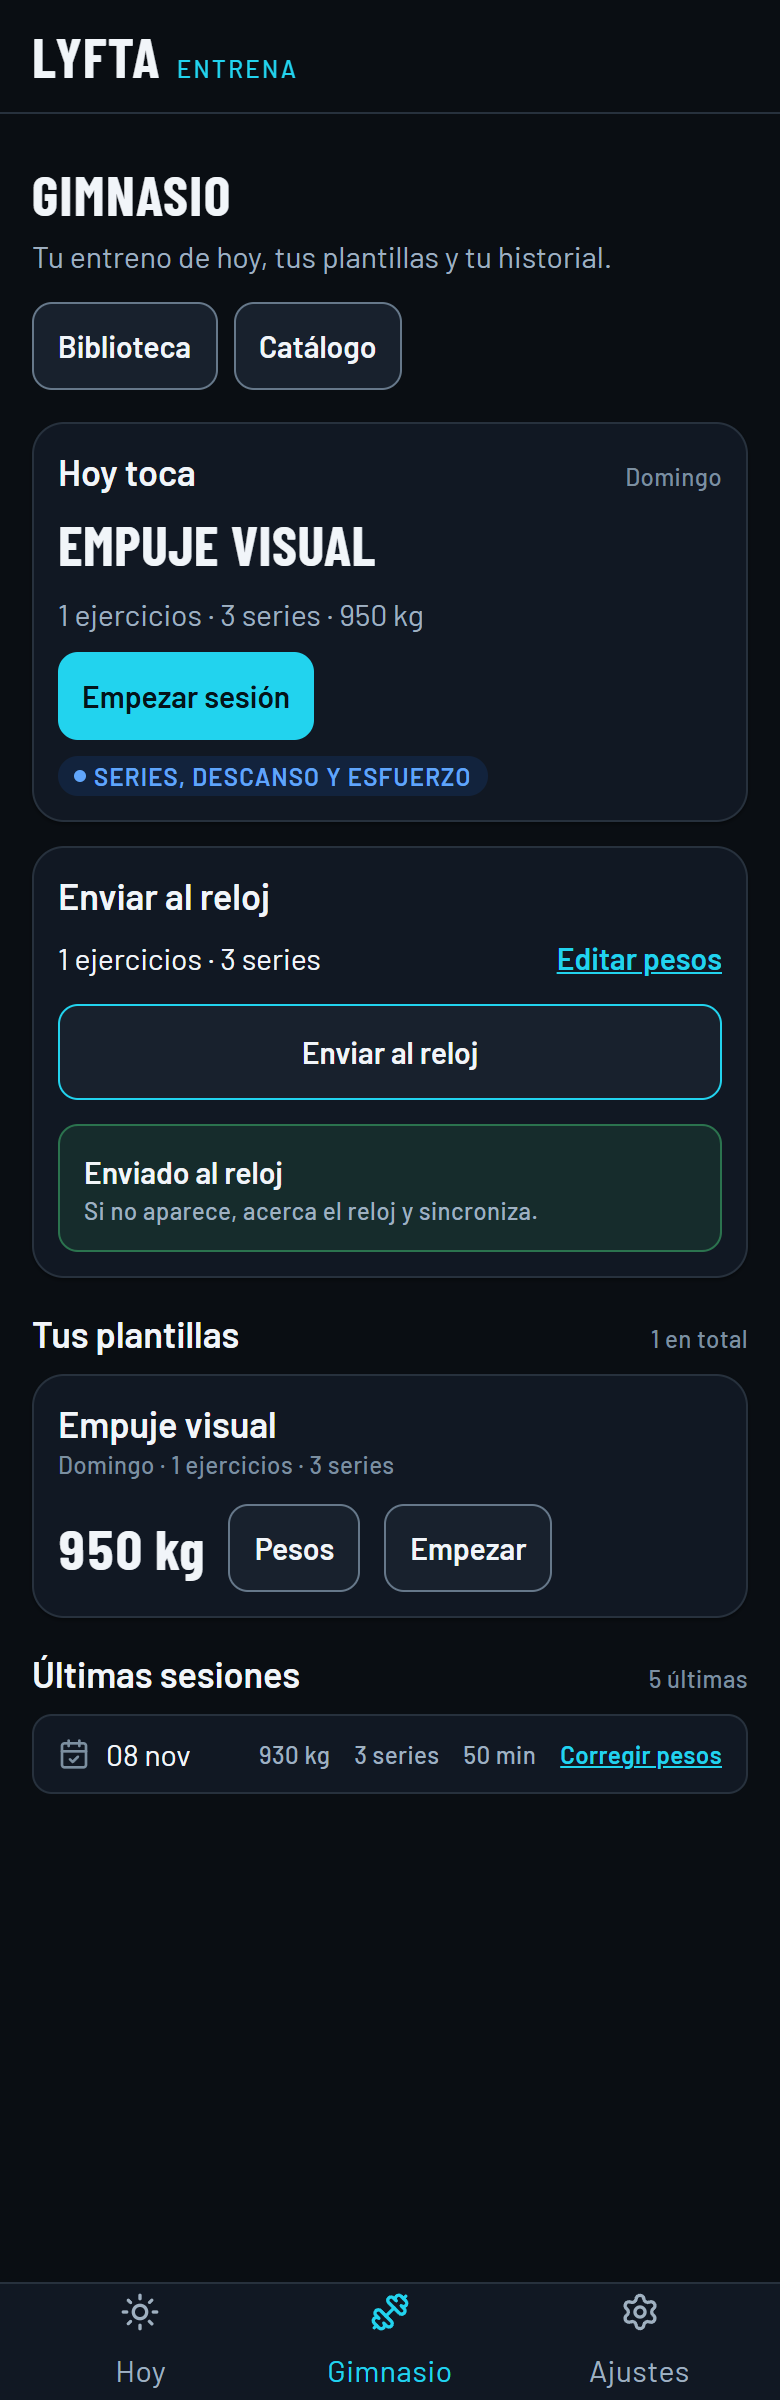
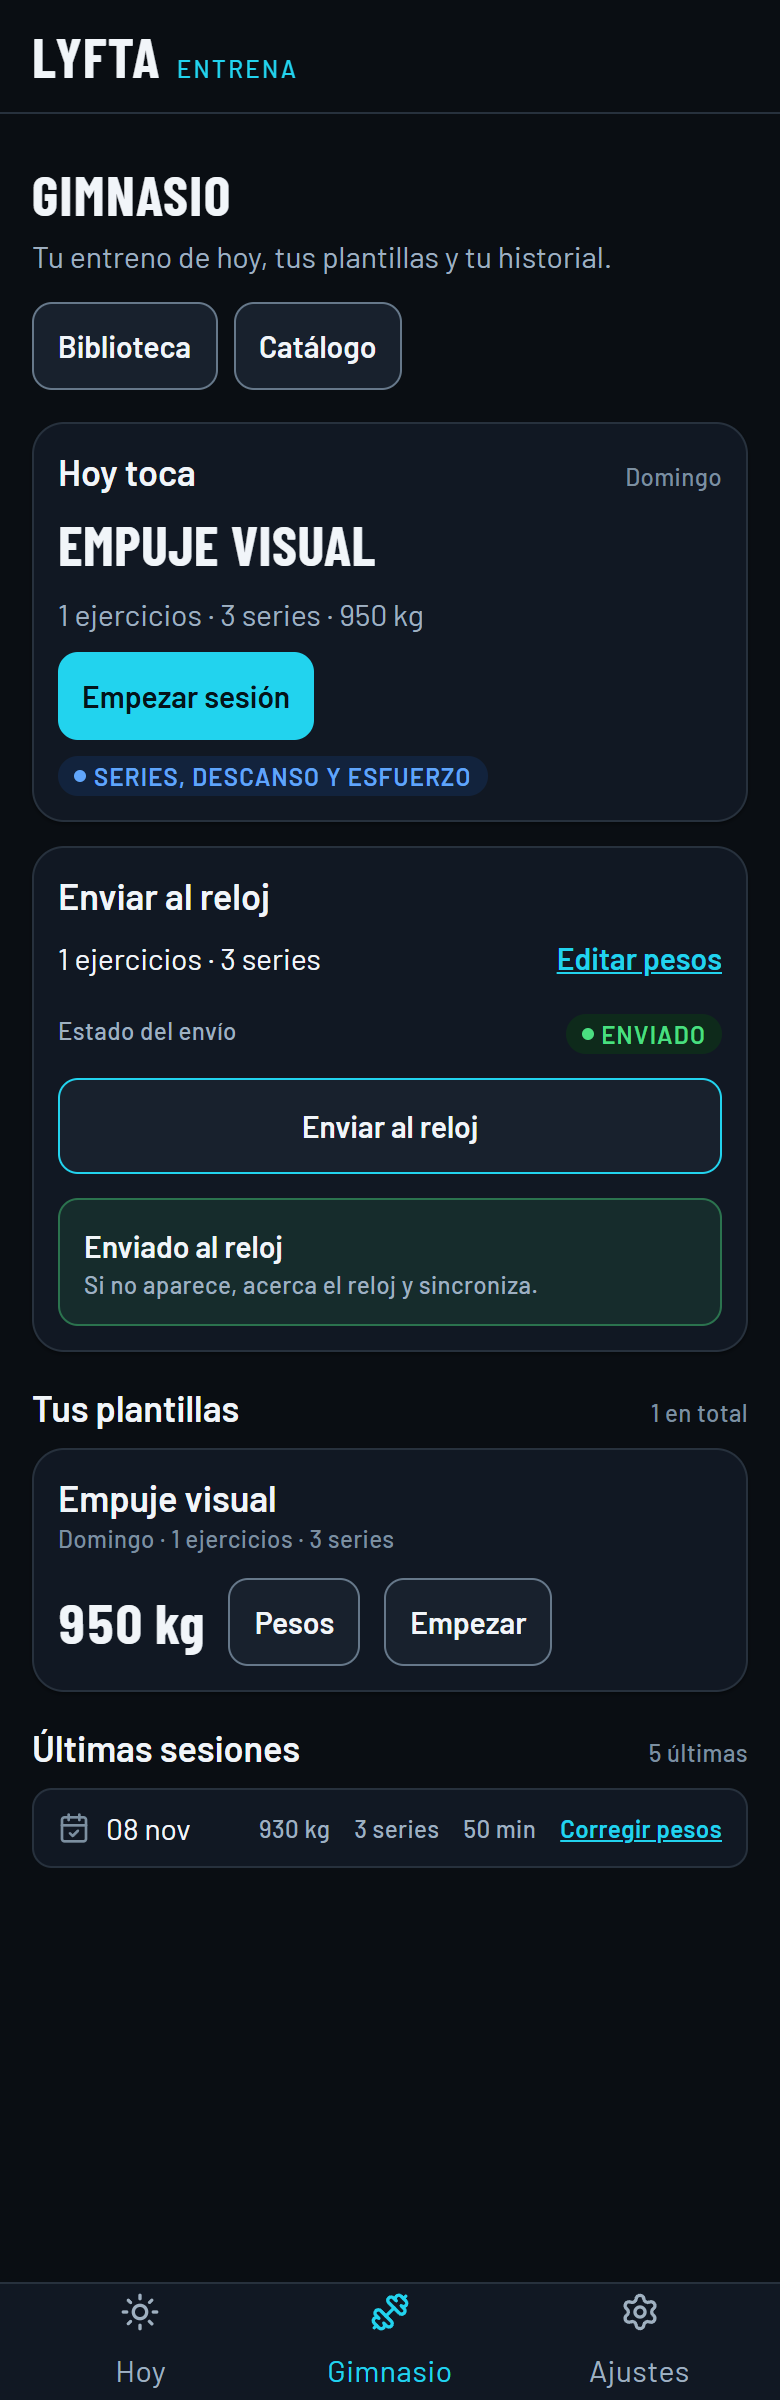
Envio al reloj con estados pendiente/enviado/error y prueba

diff --git a/frontend-nuevo/src/test/watchsend.test.tsx b/frontend-nuevo/src/test/watchsend.test.tsx
@@ -37,8 +37,10 @@ describe('envío de la plantilla al reloj', () => {
     const user = userEvent.setup();
     renderApp('/gimnasio');
 
+    expect(await screen.findByText(/^pendiente$/i)).toBeInTheDocument();
     await user.click(await screen.findByRole('button', { name: /^enviar al reloj$/i }));
     expect(await screen.findByText(/enviado al reloj/i)).toBeInTheDocument();
+    expect(screen.getByText(/^enviado$/i)).toBeInTheDocument();
 
     const sentCall = api.calls.find(
       (call) => call.method === 'POST' && call.path === '/api/v1/strength/push-to-garmin',
@@ -62,6 +64,7 @@ describe('envío de la plantilla al reloj', () => {
 
     await user.click(await screen.findByRole('button', { name: /^enviar al reloj$/i }));
     expect(await screen.findByText(/no se pudo enviar/i)).toBeInTheDocument();
+    expect(screen.getByText(/^error$/i)).toBeInTheDocument();
     expect(await screen.findByText(/acerca el reloj, sincroniza/i)).toBeInTheDocument();
     expect(screen.getByRole('button', { name: /reintentar/i })).toBeInTheDocument();
   });

diff --git a/frontend-nuevo/src/pages/GymPage.tsx b/frontend-nuevo/src/pages/GymPage.tsx
@@ -124,6 +124,14 @@ export function GymPage() {
                 Editar pesos
               </Link>
             </div>
+            <div className="flex items-center justify-between gap-2">
+              <span className="text-caption text-ink-muted">Estado del envío</span>
+              <span role="status">
+                <Badge tone={push.isError ? 'stop' : push.data?.status === 'sent' ? 'go' : 'idle'}>
+                  {push.isPending ? 'Enviando…' : push.isError ? 'Error' : push.data?.status === 'sent' ? 'Enviado' : 'Pendiente'}
+                </Badge>
+              </span>
+            </div>
             <Button onClick={startSend} disabled={push.isPending} className="min-h-12 w-full">
               {push.isPending ? 'Enviando…' : 'Enviar al reloj'}
             </Button>

diff --git a/WALL.md b/WALL.md
@@ -29,6 +29,6 @@ reloj y el análisis está completo.
 - Frontend: 41/41 pruebas en 18 ficheros.
 - Backend: 19/19 scripts (incluye perfil IMU en seco, auto-carga, watch-app, rutas y calendario recurrente).
 - Capturas: `frontend-nuevo/screenshots/` — 24 capturas nuevas y numeradas (01–24).
-- Regresión visual: `npm run visual` compara planificador, envío y sesión con `pixelmatch` (4 pantallas, 0 píxeles distintos en la última pasada).\n- Gimnasio móvil: pesos por serie con − / + al planificar y después, envío desde Lyfta con estado y edición posterior; guardado automático y última marca como respaldo.
+- Regresión visual: `npm run visual` compara planificador, envío y sesión con `pixelmatch` (4 pantallas, 0 píxeles distintos en la última pasada).\n- Envío al reloj: botón único con estado **Pendiente / Enviado / Error** y guía de sincronización; cubierto por pruebas y regresión visual.\n- Gimnasio móvil: pesos por serie con − / + al planificar y después, envío desde Lyfta con estado y edición posterior; guardado automático y última marca como respaldo.
 - El nombre visible se configura en `frontend-nuevo/src/config/marca.ts`. La sesión, el tema, las secciones y los borradores de la versión anterior se pueden recuperar. La prueba de sesión antigua falla antes del cambio y pasa después.
 - Contrato HTTP en una base de pruebas: 140/140. Humo a 390 × 844: 20 capturas de este pase, sin errores de navegador. La cuenta nueva no tenía actividad GPS; el detalle de actividad se cubre con la prueba específica y la captura existente.

diff --git a/GUION-PRUEBA-RELOJ.md b/GUION-PRUEBA-RELOJ.md
@@ -9,7 +9,7 @@ introduce David; el agente no lo pide ni lo guarda. No se activan GitHub Actions
 |---|---|---|---|
 | 1 | Backend con la cuenta real y **Ajustes → Vincular cuenta** | «Vinculado» | Apuntar el mensaje, sin contraseña ni código |
 | 2 | **Gimnasio → Editar pesos** y ajustar una serie con − / + | El peso cambia y se guarda solo | Apuntar la serie y el plan |
-| 3 | **Gimnasio → Enviar al reloj** | «Enviado al reloj» | Apuntar el texto y si el reloj está sincronizado |
+| 3 | **Gimnasio → Enviar al reloj** | Estado **Pendiente** antes; **Enviado** o **Error** después | Apuntar el estado y si el reloj está sincronizado |
 | 4 | Abrir el entreno en el reloj | Ejercicio, serie, peso objetivo y reps; no pide escribir peso | Captura y pantalla exacta |
 | 5 | Pulsar **Empezar** y hacer una serie | La serie se guarda y avanza sin pulsar OK | Hora, modelo y qué se vio |
 | 6 | Sincronizar el reloj | La actividad aparece en Lyfta / Garmin | Esperar y sincronizar; apuntar hora |

diff --git a/ESTADO-AGENTE.md b/ESTADO-AGENTE.md
@@ -1,6 +1,6 @@
 titulo: Lyfta — entrenamiento, reloj y análisis
 estado: en-curso
-tarea: regresión visual con capturas de referencia y guardado/corrección de pesos a dos toques, con auto-guardado
+tarea: envío al reloj desde la app con estados Pendiente/Enviado/Error y prueba en seco; regresión visual actualizada
 nivel: 2
 siguiente: probar el flujo en el fr255 real y retomar el detector cuando el simulador repinte
 bloqueado: el simulador entrega una imagen congelada/Off y no un frame nuevo; no hay captura válida de la app
